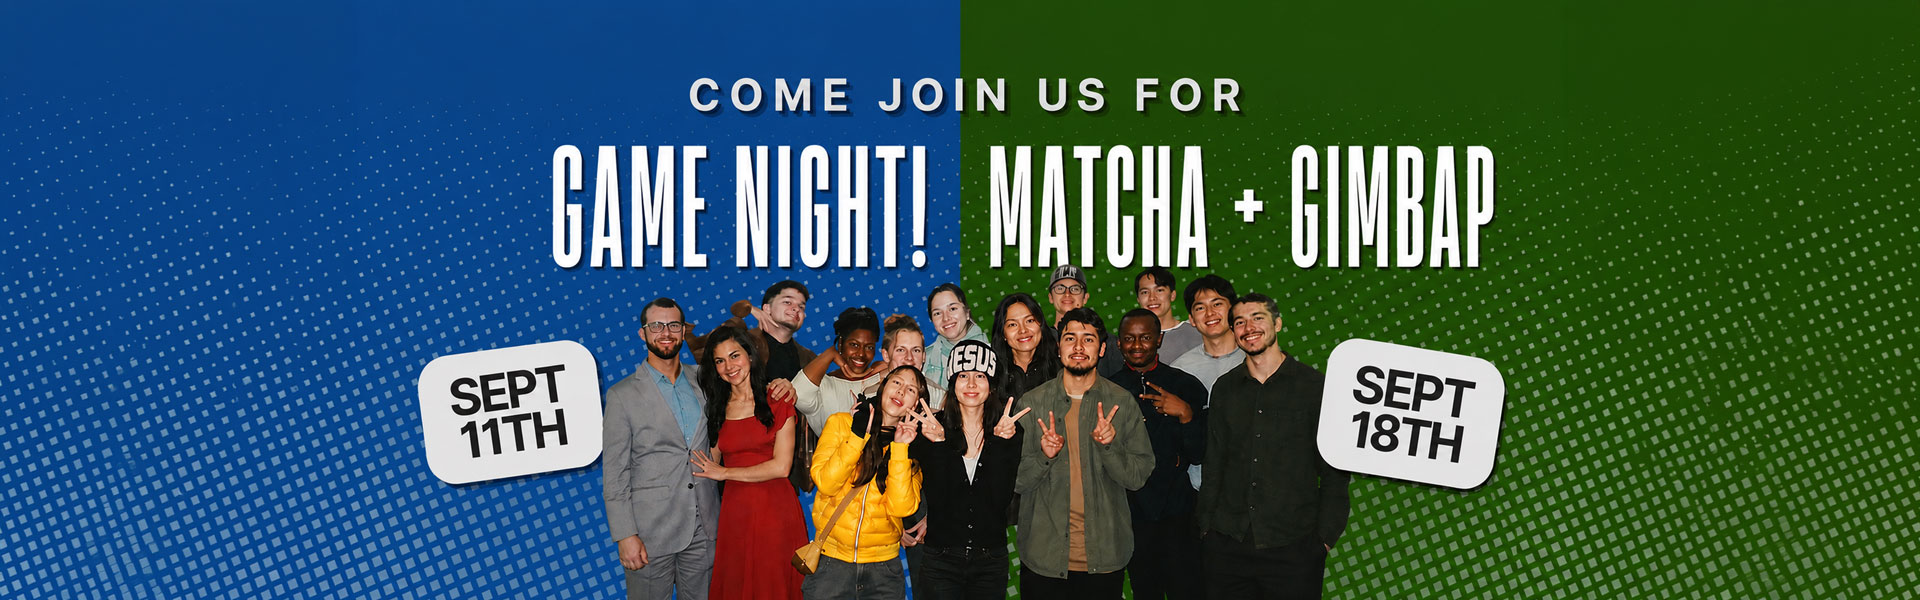
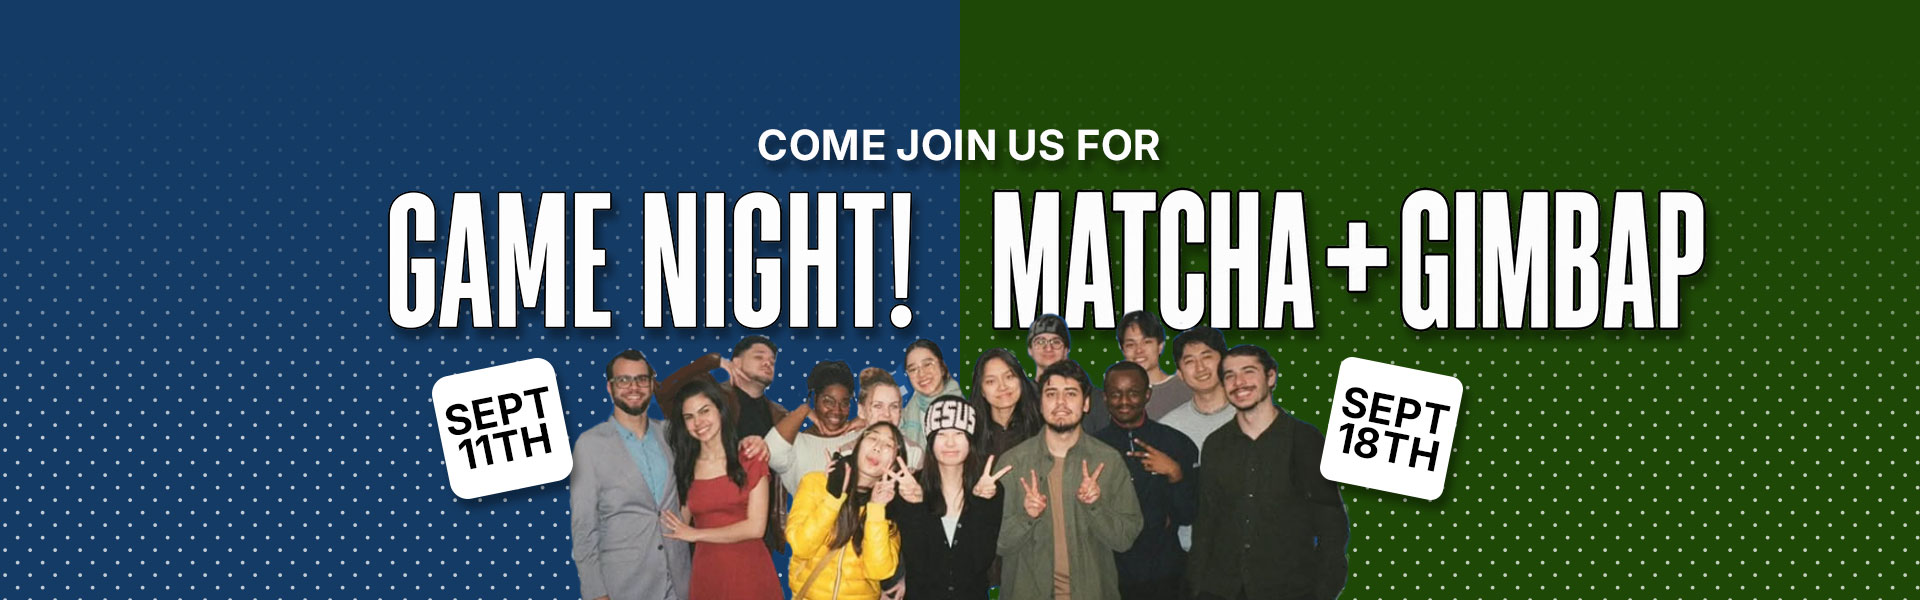
Modified invitation images

diff --git a/resources/views/pages/giving.blade.php b/resources/views/pages/giving.blade.php
@@ -98,7 +98,7 @@
             <span class="text-sm font-semibold text-slate-900 mb-2">{{ __('giving.instructions') }}</span>
 
             <!-- Video Wrapper -->
-            <div class="w-full bg-black aspect-[350/775] max-h-[80vh] mx-auto overflow-hidden">
+            <div class="w-full bg-black aspect-350/775 max-h-[80vh] mx-auto overflow-hidden">
                 <!--
                 Binding the 'src' attribute ensures the iframe unloads/stops playing
                 instantly when 'isOpen' becomes false.
